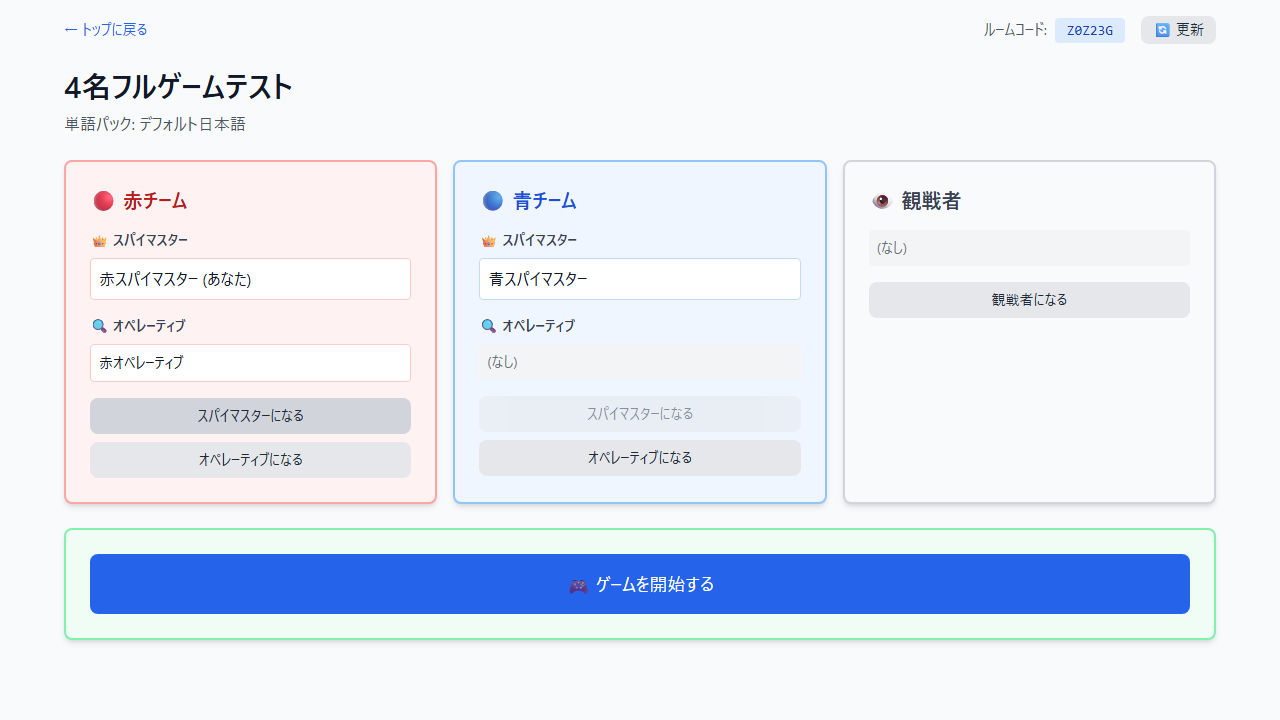
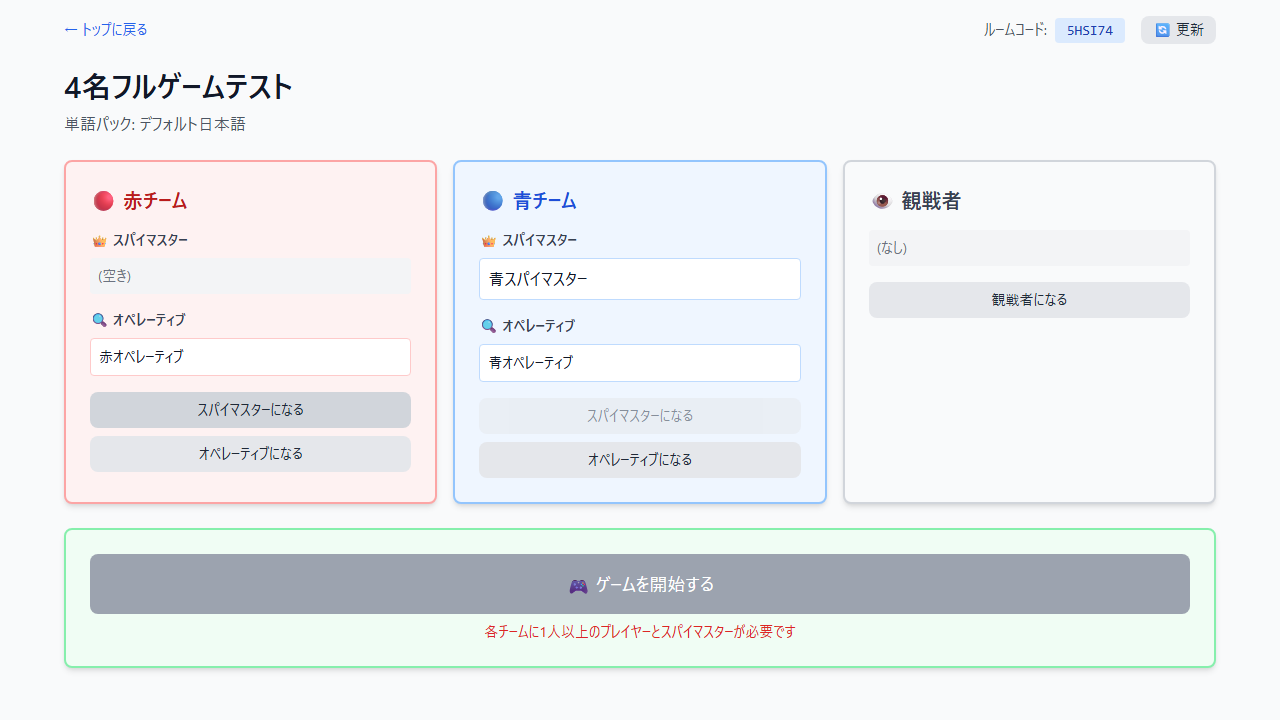
fix: 楽観的更新で新規プレイヤーも追加するように修正
setPlayers内でプレイヤーが存在しない場合は追加、存在する場合は更新
これによりホスト自身も確実に表示される

diff --git a/client/src/pages/LobbyPage.tsx b/client/src/pages/LobbyPage.tsx
@@ -99,9 +99,16 @@ export default function LobbyPage() {
       setCurrentPlayer(updated);
 
       // players配列を即座に更新（楽観的更新）
-      setPlayers((prev) =>
-        prev.map((p) => (p.id === updated.id ? updated : p))
-      );
+      setPlayers((prev) => {
+        const exists = prev.some((p) => p.id === updated.id);
+        if (exists) {
+          // 既存プレイヤーの更新
+          return prev.map((p) => (p.id === updated.id ? updated : p));
+        } else {
+          // 新規プレイヤーの追加
+          return [...prev, updated];
+        }
+      });
 
       // バックグラウンドでloadRoomを呼んで検証
       loadRoom();
@@ -127,9 +134,16 @@ export default function LobbyPage() {
       setCurrentPlayer(updated);
 
       // players配列を即座に更新（楽観的更新）
-      setPlayers((prev) =>
-        prev.map((p) => (p.id === updated.id ? updated : p))
-      );
+      setPlayers((prev) => {
+        const exists = prev.some((p) => p.id === updated.id);
+        if (exists) {
+          // 既存プレイヤーの更新
+          return prev.map((p) => (p.id === updated.id ? updated : p));
+        } else {
+          // 新規プレイヤーの追加
+          return [...prev, updated];
+        }
+      });
 
       // バックグラウンドでloadRoomを呼んで検証
       loadRoom();
@@ -156,9 +170,16 @@ export default function LobbyPage() {
       setCurrentPlayer(updated);
 
       // players配列を即座に更新（楽観的更新）
-      setPlayers((prev) =>
-        prev.map((p) => (p.id === updated.id ? updated : p))
-      );
+      setPlayers((prev) => {
+        const exists = prev.some((p) => p.id === updated.id);
+        if (exists) {
+          // 既存プレイヤーの更新
+          return prev.map((p) => (p.id === updated.id ? updated : p));
+        } else {
+          // 新規プレイヤーの追加
+          return [...prev, updated];
+        }
+      });
 
       // バックグラウンドでloadRoomを呼んで検証
       loadRoom();
